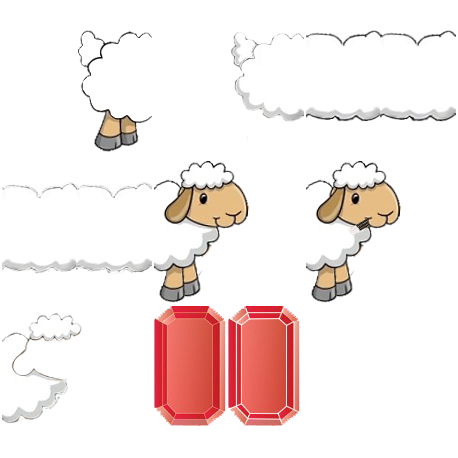
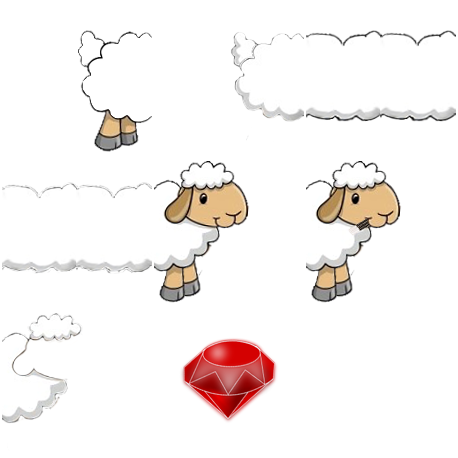
glow + default elements

Changed region(s): [[0.3362, 0.6419, 0.6725, 0.9476]]

diff --git a/3-implementierung/src/lambda/model/levels/LevelContext.java b/3-implementierung/src/lambda/model/levels/LevelContext.java
@@ -4,6 +4,7 @@ import com.badlogic.gdx.audio.Music;
 import com.badlogic.gdx.graphics.Texture;
 import com.badlogic.gdx.graphics.g2d.Animation;
 import com.badlogic.gdx.graphics.g2d.TextureAtlas;
+import com.badlogic.gdx.graphics.g2d.TextureRegion;
 import com.badlogic.gdx.scenes.scene2d.ui.Image;
 
 import lambda.model.shop.ElementUIContextFamily;
@@ -24,6 +25,7 @@ public class LevelContext {
     private DifficultySetting difficultySetting;
     private Animation cloudAnimation;
     private Animation magicAnimation;
+    private TextureRegion glow;
 
     /**
      * Creates a new instance of this class
@@ -33,6 +35,7 @@ public class LevelContext {
         this.manager = LevelManager.getLevelManager();
         this.magicAnimation = new Animation(1/15f, manager.getAssetManager().get(LevelManager.MAGIC_ANIMATIONPATH, TextureAtlas.class).getRegions());
         this.cloudAnimation = new Animation(1/15f, manager.getAssetManager().get(LevelManager.CLOUD_ANIMATIONPATH, TextureAtlas.class).getRegions());
+        this.glow = new TextureRegion((manager.getAssetManager().get(LevelManager.GLOW, TextureAtlas.class)).findRegion("glow"));
         elementUIContextFamily = ShopModel.getShop().getElementUIContextFamilies().getActivatedItem();
         
         /*not needed anymore

diff --git a/3-implementierung/src/lambda/model/levels/LevelManager.java b/3-implementierung/src/lambda/model/levels/LevelManager.java
@@ -27,6 +27,11 @@ public class LevelManager {
 	 * The path to the atlas file of the cloud animation
 	 */
 	public static final String CLOUD_ANIMATIONPATH = "data/animation/cloud/cloud.atlas";
+	
+	/**
+	 * The path to the atlas file of the glow
+	 */
+	public static final String GLOW = "data/animation/glow/glow.atlas";
 	private AssetManager assetManager;
     private static LevelManager manager;
     private String[] levelFilePaths;
@@ -99,6 +104,7 @@ public class LevelManager {
     	}
     	assets.load(MAGIC_ANIMATIONPATH, TextureAtlas.class);
     	assets.load(CLOUD_ANIMATIONPATH, TextureAtlas.class);
+    	assets.load(GLOW, TextureAtlas.class);
     }
     	
    
